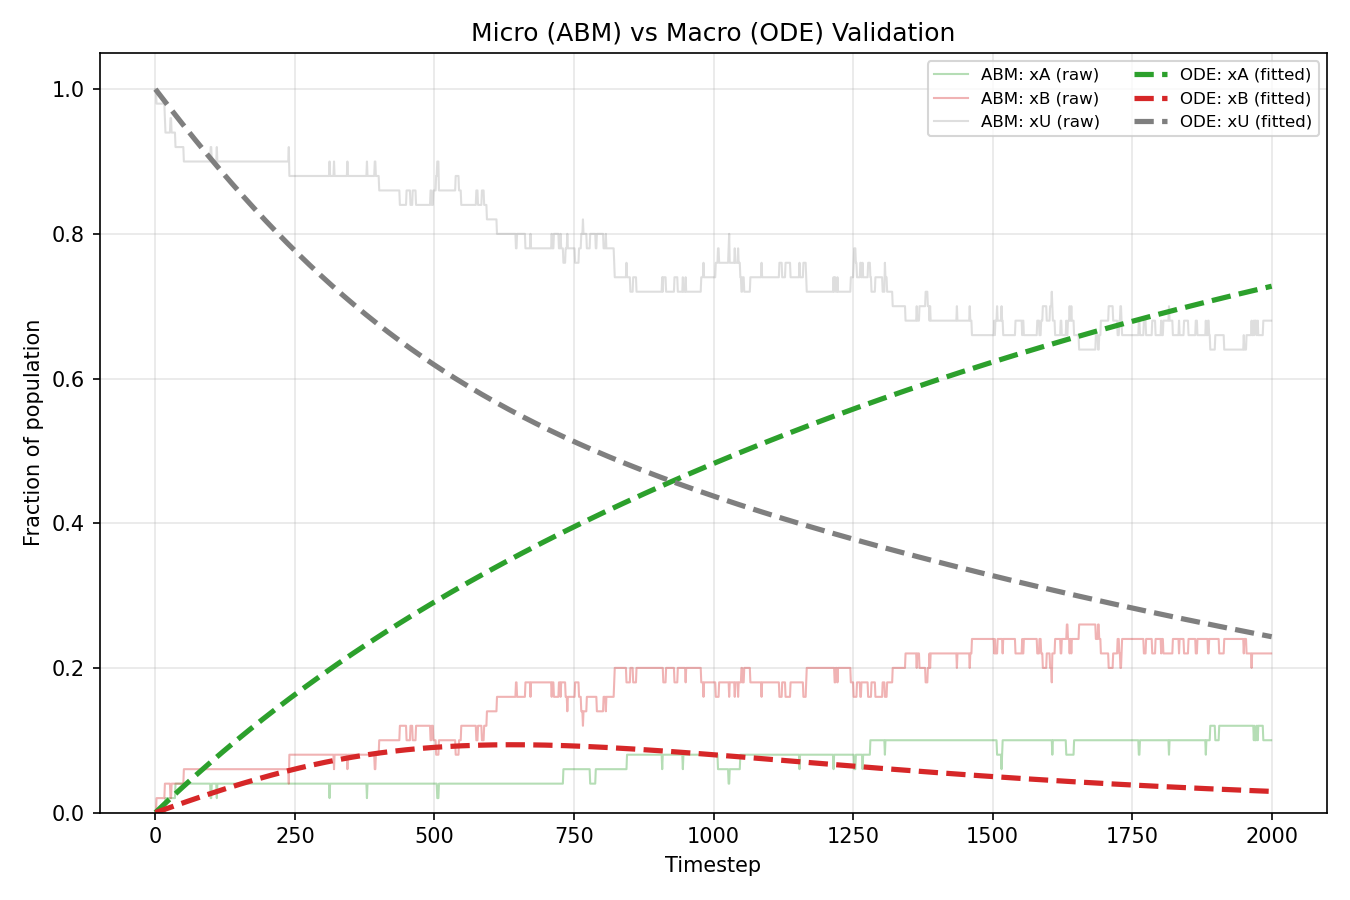
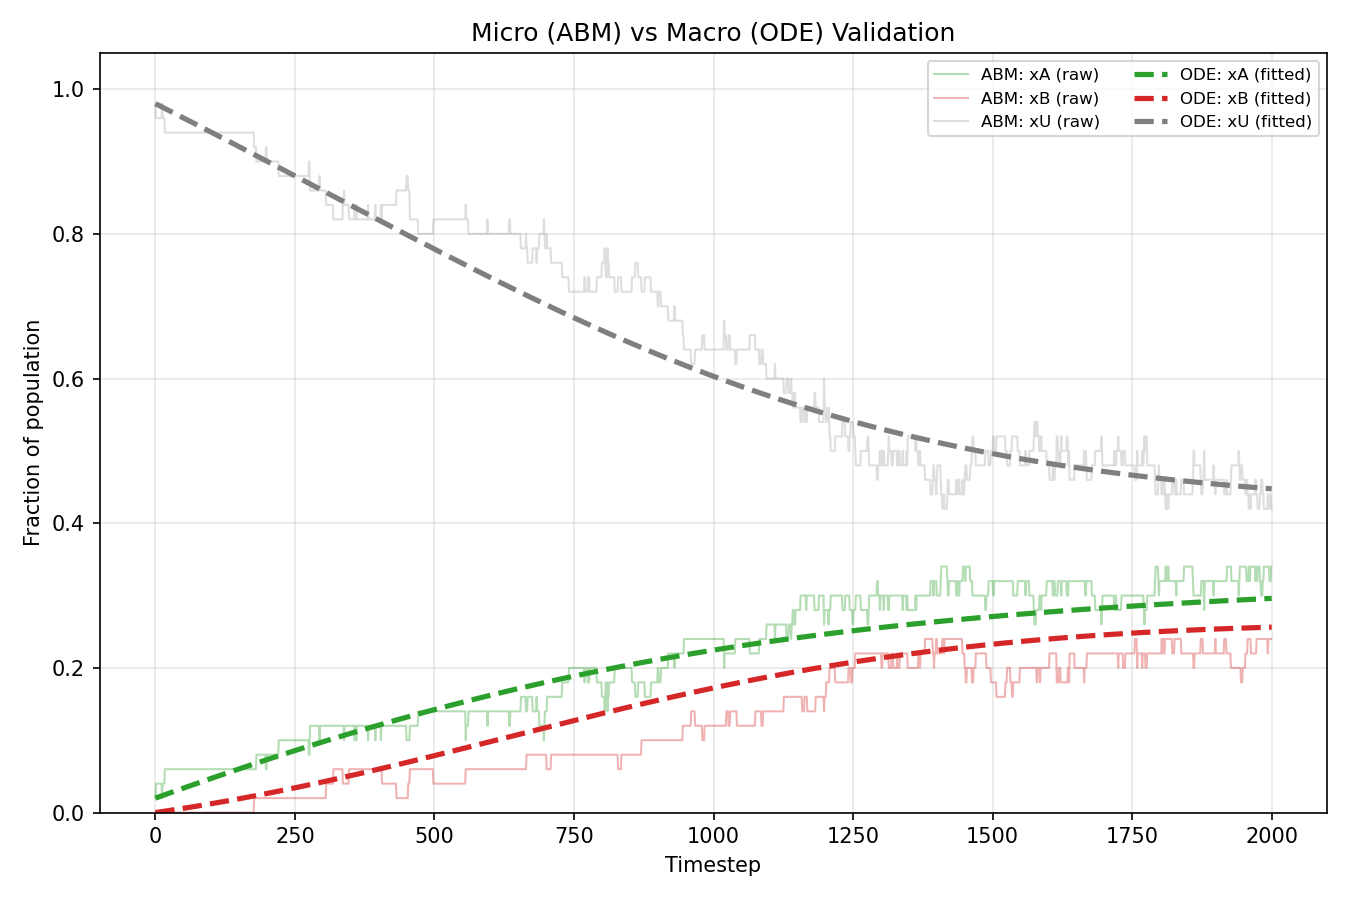
aaddig fix

diff --git a/resource_site_b.py b/resource_site_b.py
@@ -33,7 +33,10 @@ def update_two_sites(states,positions, grid_A, grid_B, rng):
     return states
 
 def run_two_site_environment(n_robots=None, n_steps=None, seed=None):
-    positions, states = rsa.initialize_robots(p.NUMBER_OF_ROBOTS, p.ARENA_SIZE, p.rng)
+    n_robots = p.NUMBER_OF_ROBOTS if n_robots is None else n_robots
+    n_steps = p.NUMBER_OF_STEPS if n_steps is None else n_steps
+    local_rng = np.random.default_rng(seed) 
+    positions, states = rsa.initialize_robots(n_robots, p.ARENA_SIZE, local_rng)
     grid_A = np.zeros((p.SIZE_OF_GRID, p.SIZE_OF_GRID))
     grid_B = np.zeros((p.SIZE_OF_GRID, p.SIZE_OF_GRID))
  
@@ -44,8 +47,8 @@ def run_two_site_environment(n_robots=None, n_steps=None, seed=None):
     for t in range(n_steps):
         positions = random_walk_step_two_sites(positions, states, grid_A, grid_B,
                                                 p.STEP_SIZE, p.ARENA_SIZE,
-                                                p.GRADIENT_BIAS, p.rng)
-        states = update_two_sites(states, positions, grid_A, grid_B, p.rng)
+                                                p.GRADIENT_BIAS, local_rng)
+        states = update_two_sites(states, positions, grid_A, grid_B, local_rng)
  
         rsa.deposit_pheromone(grid_A, positions, states, p.SUPPORT_A, p.DEPOSIT_AMOUNT_A)
         rsa.deposit_pheromone(grid_B, positions, states, p.SUPPORT_B, p.DEPOSIT_AMOUNT_B)

diff --git a/anaylsis_reports.py b/anaylsis_reports.py
@@ -9,7 +9,7 @@ def agreement_time(xa, xb):
     decided= xa+xb 
     with np.errstate(divide='ignore', invalid= "ignore"):
         share_A = np.where(decided > 0, xa / np.where(decided > 0, decided, 1), 0)
-        eligible = decided >= p.MIN_DECIDED_RATIO
+    eligible = decided >= p.MIN_DECIDED_RATIO
     agree_A = eligible & (share_A >= p.AGREEMENT_THRESHOLD)
     agree_B = eligible & (share_A <= (1 - p.AGREEMENT_THRESHOLD))
     reached = agree_A | agree_B

diff --git a/resource_site_a.py b/resource_site_a.py
@@ -5,7 +5,7 @@ from basic_environment import rand_robo_placement
 
 
 def initialize_robots(number_of_robots, arena_size, rng):
-    positions = rand_robo_placement(number_of_robots, arena_size, p.rng)
+    positions = rand_robo_placement(number_of_robots, arena_size, rng)
     states = np.full(number_of_robots, p.UNDECIDED, dtype=int)
     return positions, states 
 def pheromone_gradient(p_grid, grid_unit):
